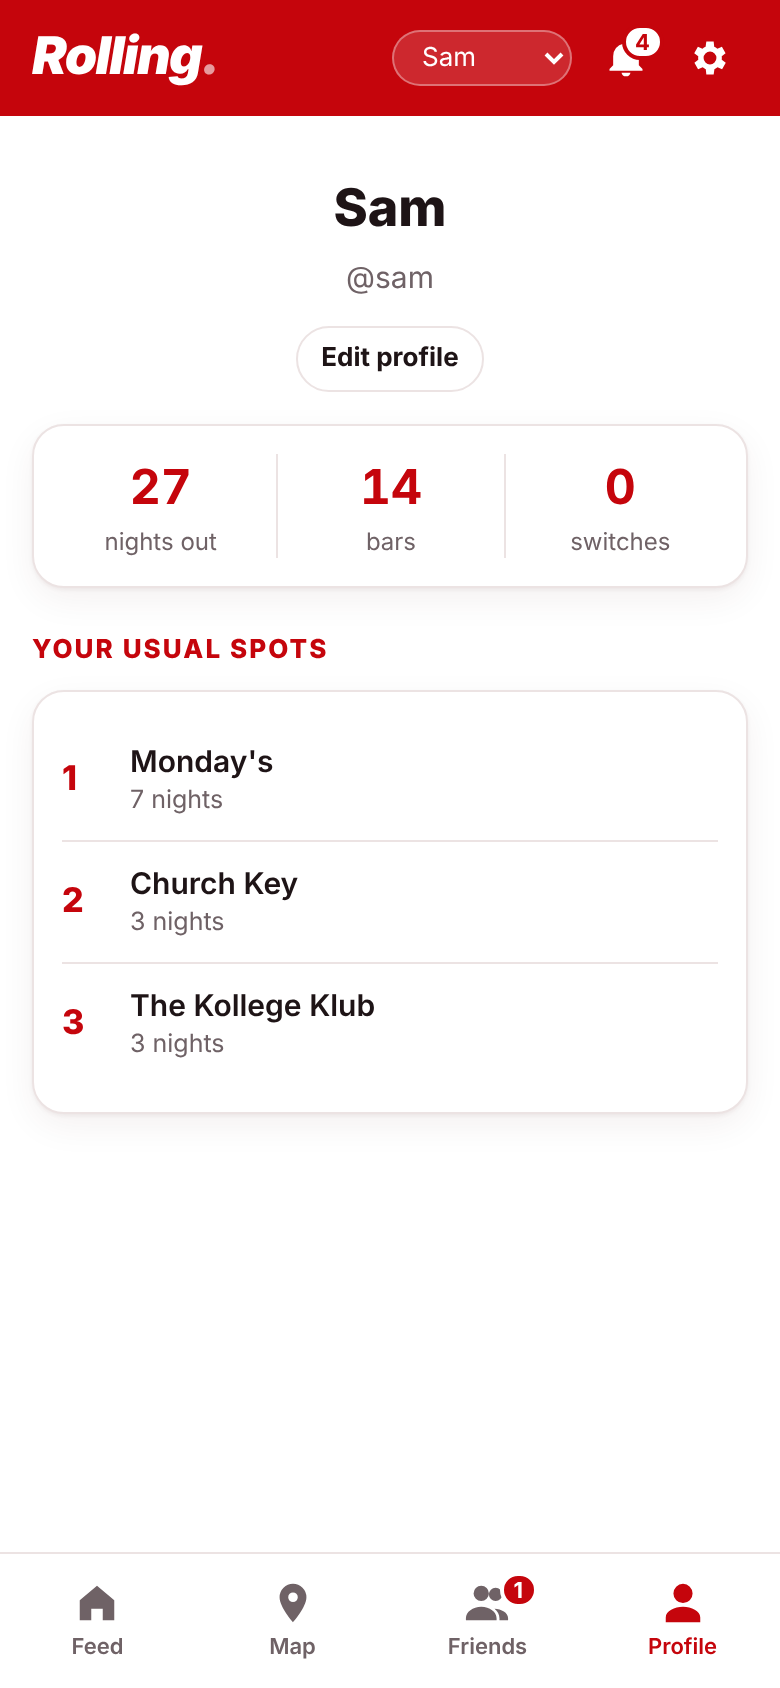
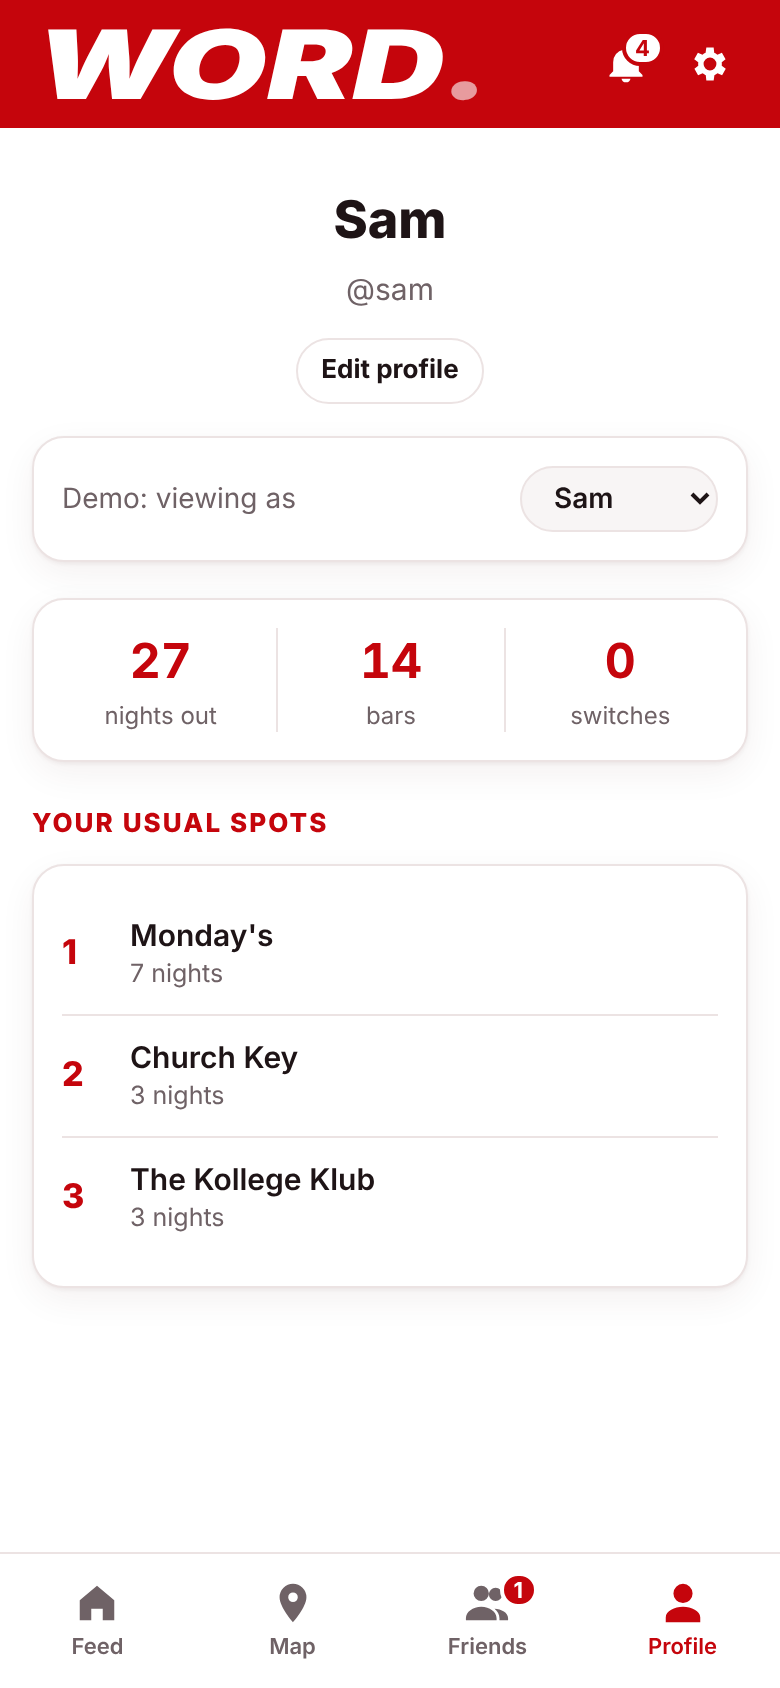
Big stretched WORD. wordmark in the top bar
The logo is an SVG text stretched with textLength across most of the bar
(64px tall), with only the bell and gear beside it. The demo "Viewing as"
switcher moves to the Profile tab.

Claude-Session: https://claude.ai/code/session_01LsgwHYcrkn2rvmvnVgPXbN

diff --git a/styles.css b/styles.css
@@ -13,7 +13,7 @@
   --shadow: 0 1px 2px rgba(60, 10, 12, .06), 0 6px 18px rgba(60, 10, 12, .06);
   --radius: 16px;
   --tabbar-h: 68px;
-  --topbar-h: 58px;
+  --topbar-h: 64px;
   --display: "Archivo", "Helvetica Neue", Arial, sans-serif;
   --body: "Inter", -apple-system, BlinkMacSystemFont, "Segoe UI", Roboto, sans-serif;
   color-scheme: light;
@@ -33,11 +33,14 @@ button { cursor: pointer; }
 .topbar { height: calc(var(--topbar-h) + env(safe-area-inset-top)); display: flex; align-items: center;
   justify-content: space-between; padding: env(safe-area-inset-top) 16px 0; background: var(--red);
   color: var(--white); position: relative; z-index: 500; }
-.brand { font-family: var(--display); font-weight: 900; font-size: 26px; letter-spacing: -0.8px; font-style: italic; }
-.brand .dot { color: var(--white); opacity: .6; }
-.viewas { display: flex; align-items: center; gap: 6px; font-size: 12px; color: rgba(255,255,255,.8); }
-.viewas select { background: rgba(255,255,255,.14); border: 1px solid rgba(255,255,255,.35); color: var(--white);
-  border-radius: 999px; padding: 4px 10px; font-size: 13px; }
+/* Wordmark (Sam, 2026-11-18): big, extra-bold, stretched across most of the bar. */
+.brand { flex: 1; min-width: 0; margin: 0 14px 0 0; height: 46px; display: flex; align-items: center; }
+.brand svg { width: 100%; height: 100%; overflow: visible; }
+.brand text { font-family: var(--display); font-weight: 900; font-size: 52px; font-style: italic; fill: var(--white); }
+.brand .dot { fill: var(--white); opacity: .6; }
+.viewas { display: flex; align-items: center; justify-content: space-between; gap: 10px; font-size: 14px; color: var(--muted); padding: 12px 16px; margin-bottom: 18px; }
+.viewas select { background: var(--surface); border: 1px solid var(--line); color: var(--text); font-weight: 600;
+  border-radius: 999px; padding: 6px 12px; font-size: 14px; }
 .viewas select option { color: var(--text); }
 
 main { position: absolute; top: calc(var(--topbar-h) + env(safe-area-inset-top)); bottom: calc(var(--tabbar-h) + env(safe-area-inset-bottom)); left: 0; right: 0; }
@@ -209,13 +212,11 @@ textarea.comment:focus { border-color: var(--red); }
 
 /* Header actions: bell + settings */
 .top-actions { display: flex; align-items: center; gap: 4px; }
-.top-actions .viewas { margin-right: 4px; }
 .icon-btn { position: relative; width: 38px; height: 38px; border-radius: 50%; border: 0; background: transparent;
   color: var(--white); display: grid; place-items: center; }
 .icon-btn:hover { background: rgba(255,255,255,.14); }
 .icon-btn svg { width: 22px; height: 22px; fill: currentColor; }
 .icon-btn .badge { top: 2px; left: auto; right: 0; background: var(--white); color: var(--red); border-color: var(--red); }
-@media (max-width: 440px) { .viewas span { display: none; } }
 
 /* Favorites */
 .star { width: 34px; height: 30px; border-radius: 999px; border: 1.5px solid var(--line); background: var(--bg);

diff --git a/app.js b/app.js
@@ -150,10 +150,12 @@
   document.querySelectorAll(".tabbar [data-tab]").forEach((b) => b.addEventListener("click", () => showTab(b.dataset.tab)));
 
   // ---------- view-as switcher (stand-in for sign-in) ----------
+  // Lives on the Profile tab so the top bar is just the logo, bell and gear.
   function renderViewAs() {
+    if (!$("#viewAs")) return;
     $("#viewAs").innerHTML = state.users.map((u) => `<option value="${u.id}" ${u.id === state.me ? "selected" : ""}>${esc(u.name)}</option>`).join("");
   }
-  $("#viewAs").addEventListener("change", (e) => { state.me = e.target.value; save(); render(); });
+  document.addEventListener("change", (e) => { if (e.target.id === "viewAs") { state.me = e.target.value; save(); render(); } });
   function renderBadge() {
     const n = incoming().length;
     const b = $("#reqBadge");
@@ -870,6 +872,9 @@
         <div class="sub">@${esc(me.handle)}</div>
         <button class="btn small" id="editProfile">Edit profile</button>
       </div>
+      <label class="viewas card" title="No sign-in yet: pick which demo user you are">
+        <span>Demo: viewing as</span><select id="viewAs"></select>
+      </label>
       <div class="card stats">
         <div><b>${nights}</b><span>nights out</span></div>
         <div><b>${Object.keys(counts).length}</b><span>bars</span></div>
@@ -880,6 +885,7 @@
         <button class="spot-row" data-bar="${id}"><span class="rank top">${i + 1}</span>
           <span class="info"><div class="n">${esc(BAR_BY_ID[id].name)}</div><div class="sub small">${n} night${n > 1 ? "s" : ""}</div></span></button>`).join("")
         : `<div class="sub small">Post where you're headed and your favorite bars show up here.</div>`}</div>`;
+    renderViewAs();
     el.querySelectorAll("[data-bar]").forEach((n) => n.onclick = () => { showTab("map"); focusBar(n.dataset.bar); });
     $("#editProfile").onclick = () => {
       openSheet(`<h3>Edit profile</h3><div class="sub">Your friends see this.</div>

diff --git a/index.html b/index.html
@@ -14,12 +14,12 @@
 <body>
   <div id="app">
     <header class="topbar">
-      <div class="brand">Word<span class="dot">.</span></div>
+      <h1 class="brand" aria-label="Word">
+        <svg viewBox="0 0 260 50" preserveAspectRatio="xMinYMid meet" aria-hidden="true">
+          <text x="2" y="44" textLength="248" lengthAdjust="spacingAndGlyphs">WORD<tspan class="dot">.</tspan></text>
+        </svg>
+      </h1>
       <div class="top-actions">
-        <label class="viewas" title="No sign-in yet: pick which mock user you are">
-          <span>Viewing as</span>
-          <select id="viewAs"></select>
-        </label>
         <button class="icon-btn" id="bellBtn" aria-label="Notifications">
           <svg viewBox="0 0 24 24" aria-hidden="true"><path d="M12 22a2.5 2.5 0 0 0 2.45-2h-4.9A2.5 2.5 0 0 0 12 22Zm7-6V11a7 7 0 0 0-5.5-6.84V3.5a1.5 1.5 0 0 0-3 0v.66A7 7 0 0 0 5 11v5l-2 2v1h18v-1l-2-2Z"/></svg>
           <span class="badge hidden" id="bellBadge">0</span>
